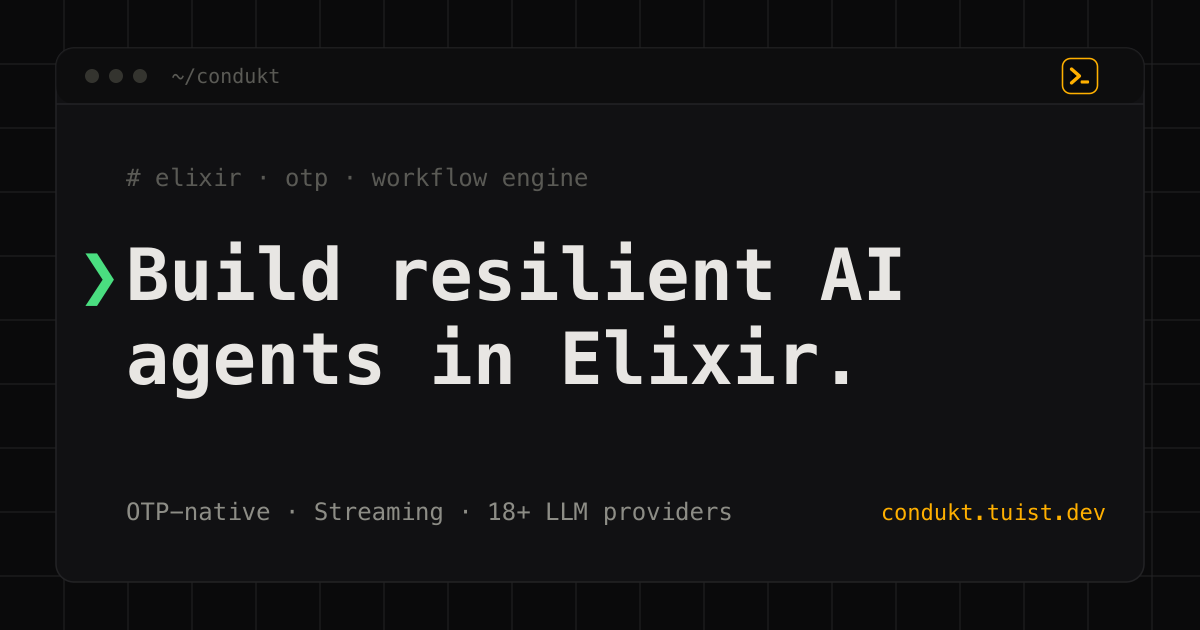
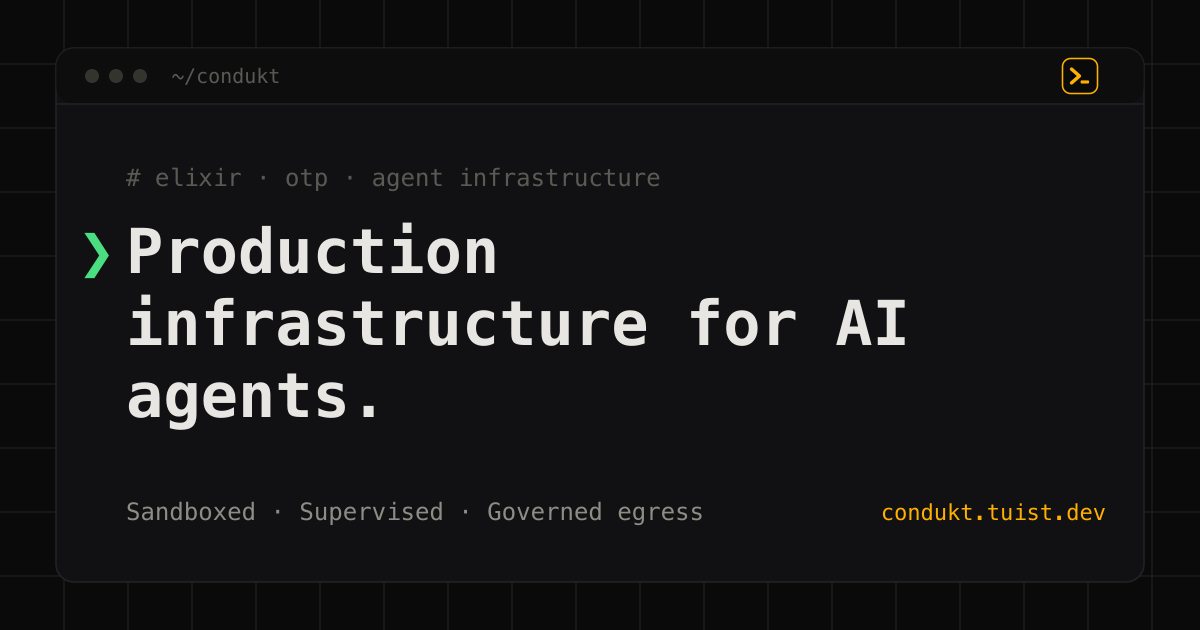
content: reposition copy around production agent infrastructure
Rework the landing page copy so it conveys what Condukt actually
does, leading with the production-infrastructure story.

- Hero now leads with sandboxed, supervised, governed agents; fix
  stale `~> 0.13` dep to the real `~> 1.5` (Condukt is at 1.5.0)
- Rebuild the feature grid to cover the real differentiators:
  OTP-native, sandboxed sessions, governed egress, pluggable
  runtimes, workflow engine, MCP client, sub-agents & HTTP,
  multi-provider streaming
- Add a "Sandboxed and governed by default" section with an
  accurate Kubernetes sandbox + NetworkPolicy example verified
  against the guides
- Correct the "Run it" snippet to the real Condukt.run/3 form
- Update site tagline, description, and webmanifest to match
- Regenerate the homepage social card with the new headline
- No em dashes in copy (project copy rule)

diff --git a/website/src/_data/site.js b/website/src/_data/site.js
@@ -1,8 +1,8 @@
 module.exports = {
   name: "Condukt",
-  tagline: "A framework for building AI agents in Elixir.",
+  tagline: "Production infrastructure for AI agents on the BEAM.",
   description:
-    "Condukt treats AI agents as first-class OTP processes that can reason, use tools, and orchestrate complex workflows.",
+    "Condukt runs AI agents as supervised OTP processes, sandboxes every session, and governs network egress. Embed it as an Elixir library or run workflow files with the standalone engine.",
   url: "https://condukt.tuist.dev",
   repo: "https://github.com/tuist/condukt",
   hex: "https://hex.pm/packages/condukt",